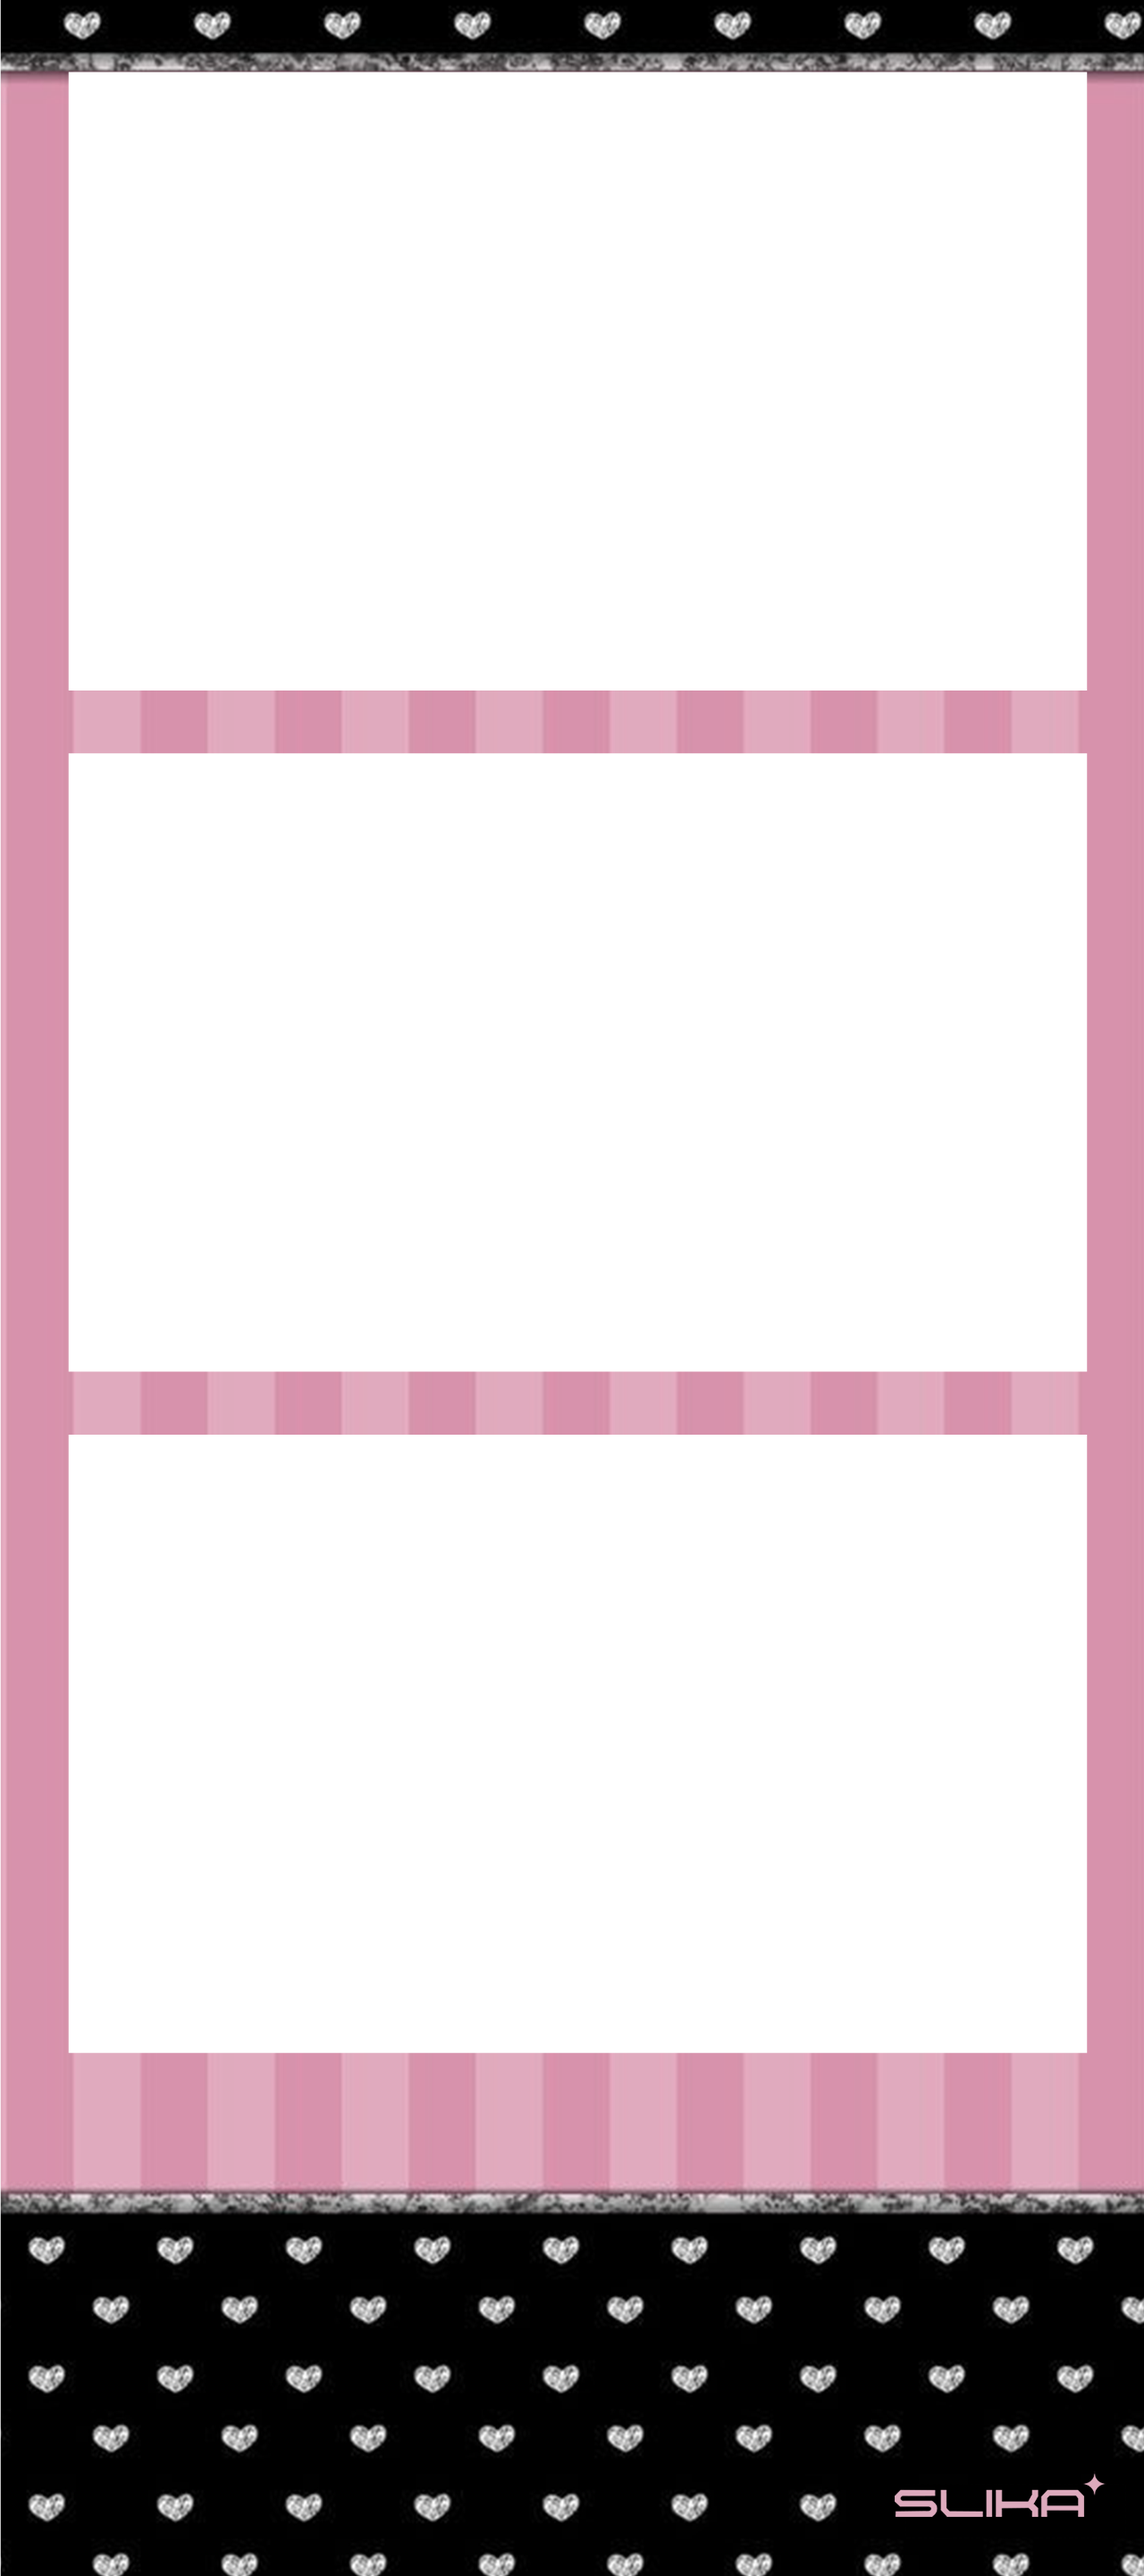
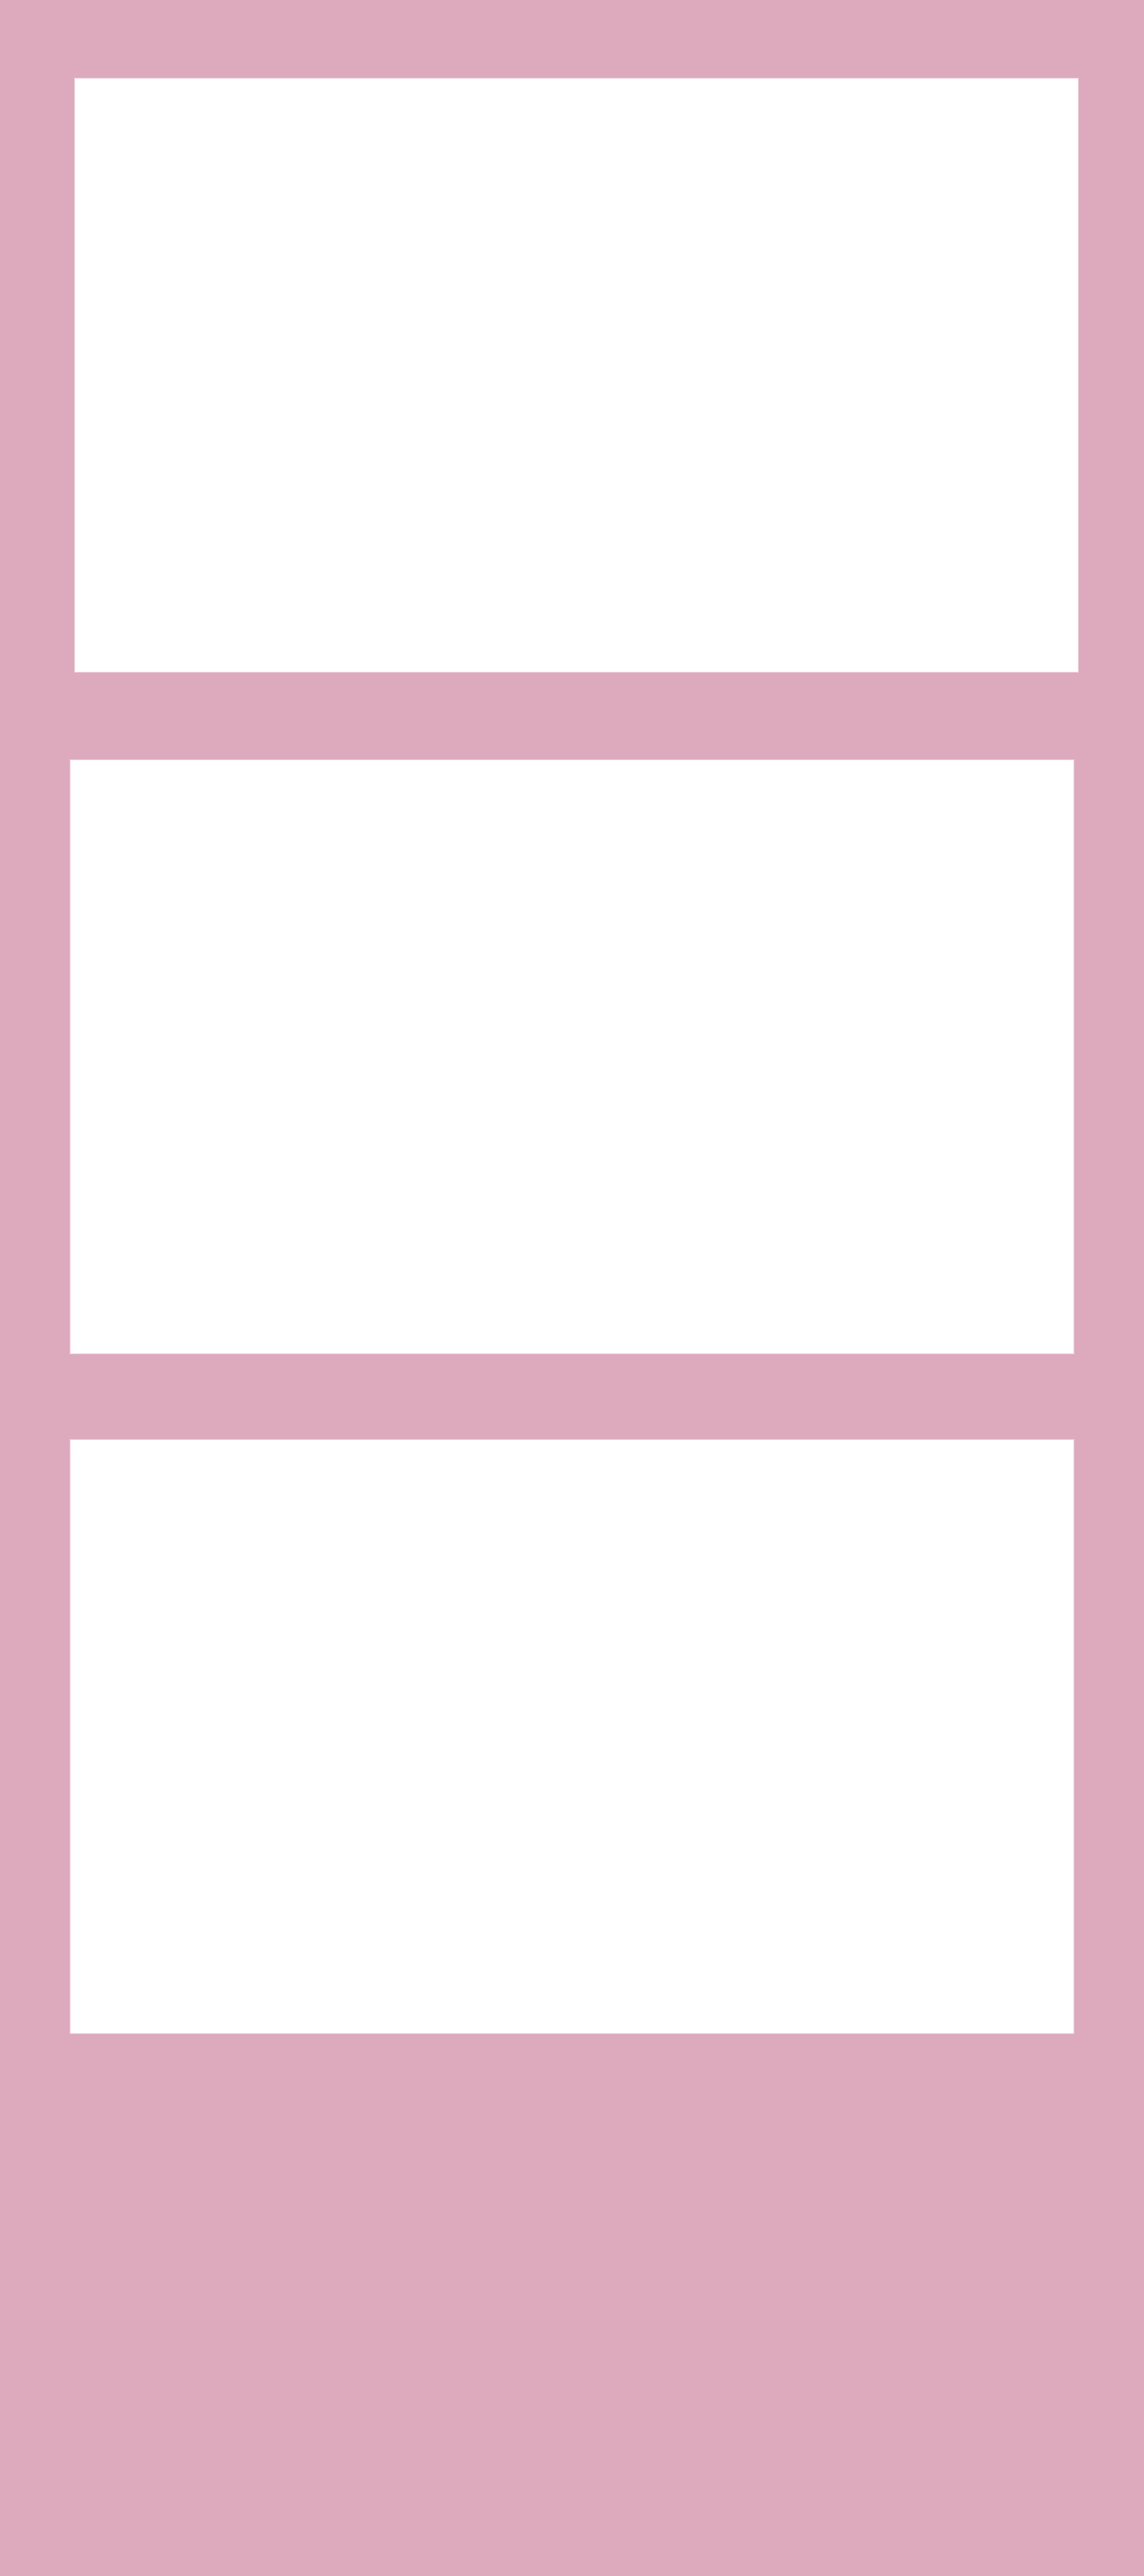
updated frames2

Changed region(s): [[0.0, 0.0, 1.0, 1.0]]

diff --git a/src/final.js b/src/final.js
@@ -2,12 +2,25 @@ document.addEventListener("DOMContentLoaded", () => {
   const canvas = document.getElementById("finalCanvas");
   const ctx = canvas.getContext("2d");
 
-  const FRAME_DESIGNS = [
-    { label: "Floral", src: "./src/assets/frames/frame-floral.png" },
-    { label: "Gradient", src: "./src/assets/frames/frame-gradient.png" },
-    { label: "Kid", src: "./src/assets/frames/frame-grass.png" },
-    { label: "", src: "./src/assets/frames/frame-bp.png" },
-  ];
+  const FRAME_DESIGNS_BY_LAYOUT = {
+    layout2: [
+      { label: "Denim", src: "./src/assets/frames/2/frame-denim.png" },
+      { label: "Grass", src: "./src/assets/frames/2/frame-grass.png" },
+      { label: "Cloud", src: "./src/assets/frames/2/frame-cloud.png" },
+    ],
+    layout3: [
+      { label: "Gradient", src: "./src/assets/frames/frame-gradient.png" },
+      { label: "Grass", src: "./src/assets/frames/frame-grass.png" },
+      { label: "BP", src: "./src/assets/frames/frame-bp.png" },
+      { label: "Star", src: "./src/assets/frames/frame-star.png" },
+    ],
+    layout4: [
+      { label: "Grass", src: "./src/assets/frames/frame-grass.png" },
+    ],
+  };
+
+  const selectedLayout = localStorage.getItem("selectedLayout") || "layout2";
+  const FRAME_DESIGNS = FRAME_DESIGNS_BY_LAYOUT[selectedLayout] ?? FRAME_DESIGNS_BY_LAYOUT["layout2"];
 
   const saveButton = document.getElementById("saveBtn");
   const restartButton = document.getElementById("restartBtn");

diff --git a/index3.html b/index3.html
@@ -75,12 +75,20 @@
             ></canvas>
           </div>
         </div>
-        <img
-          id="capture-button"
-          class="buttonfilter-ui"
-          src="./src/assets/take.png"
-          style="width: 120px; cursor: pointer"
-        />
+        <div class="bottom-buttons">
+          <img
+            id="capture-button"
+            class="buttonfilter-ui"
+            src="./src/assets/take.png"
+            style="width: 120px; cursor: pointer"
+          />
+          <img
+            src="./src/assets/next.png"
+            class="buttonfilter-ui"
+            id="skipBtn"
+            style="width: 120px; cursor: pointer"
+          />
+        </div>
         <img
           id="retake-button"
           class="buttonfilter-ui"
@@ -94,12 +102,6 @@
           alt="Confirm"
           style="width: 120px; cursor: pointer"
         />
-        <img
-            src="./src/assets/next.png"
-            class="buttonfilter-ui"
-            id="skipBtn"
-            style="width: 120px; cursor: pointer"
-          />
         <section id="images-container"></section>
         <!-- menampilkan preview foto-foto yang sudah diambil sebelum jadi layout final. -->
       </div>

diff --git a/src/takephoto.js b/src/takephoto.js
@@ -382,7 +382,10 @@ async function generateFinalLayout() {
 
     layoutImg.onload = async () => {
       try {
-        if (selectedLayout === "layout3") {
+        if (selectedLayout === "layout2") {
+          finalCanvas.width = 1280;
+          finalCanvas.height = 2880;
+        } else if (selectedLayout === "layout3") {
           finalCanvas.width = 1280;
           finalCanvas.height = 2880;
         } else if (selectedLayout === "layout4") {
@@ -450,11 +453,13 @@ function placePhotos(ctx, layout, loadedPhotos) {
 
     const img1 = loadedPhotos[0];
     const W1 = H * (img1.width / img1.height);
-    ctx.drawImage(img1, 50, 100, W1, H);
+    const x1 = (ctx.canvas.width - W1) / 2;
+    ctx.drawImage(img1, x1, 100, W1, H);
 
     const img2 = loadedPhotos[1];
     const W2 = H * (img2.width / img2.height);
-    ctx.drawImage(img2, 50, 1300, W2, H);
+    const x2 = (ctx.canvas.width - W2) / 2;
+    ctx.drawImage(img2, x2, 1300, W2, H);
   }
 
   if (layout === "layout3") {

diff --git a/src/style.css b/src/style.css
@@ -354,19 +354,24 @@ canvas {
 }
 
 #capture-button {
-  position: absolute;
-  bottom: 80px;
-  left: 50%;
-  transform: translateX(-50%);
   cursor: pointer;
   z-index: 1000;
 }
 
 #skipBtn {
+  cursor: pointer;
+  z-index: 1000;
+}
+
+.bottom-buttons {
   position: fixed;
   bottom: 80px;
-  right: 40px;
-  cursor: pointer;
+  left: 50%;
+  transform: translateX(-50%);
+  display: flex;
+  flex-direction: row;
+  gap: 20px;
+  align-items: center;
   z-index: 1000;
 }
 

diff --git a/index4.html b/index4.html
@@ -173,7 +173,6 @@
 
     </div>
 
-    <script type="module" src="/src/main.js"></script>
     <script type="module" src="/src/cursor.js"></script>
     <script type="module" src="/src/clicksound.js"></script>
     <script type="module" src="/src/final.js"></script>
